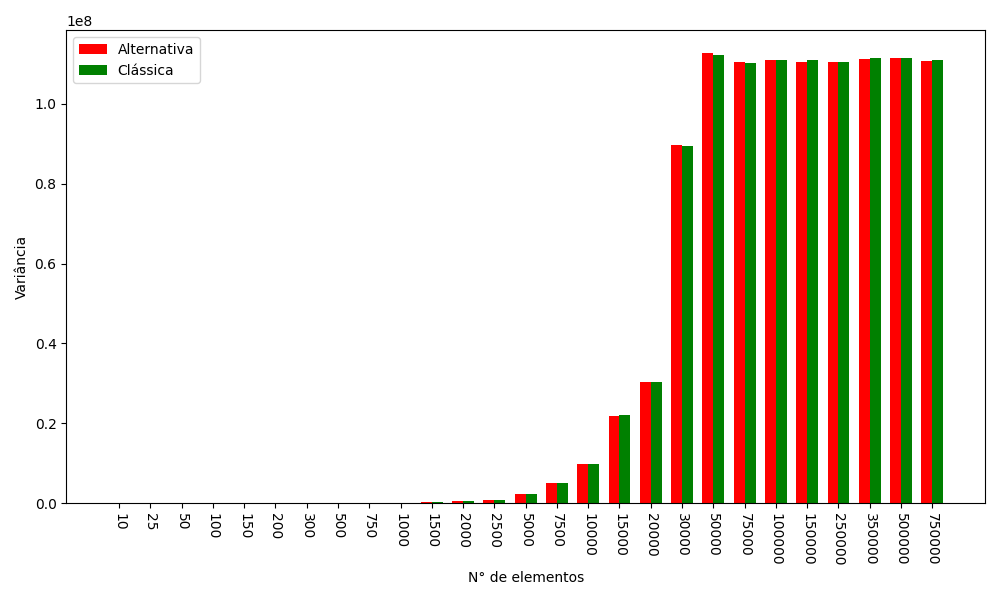
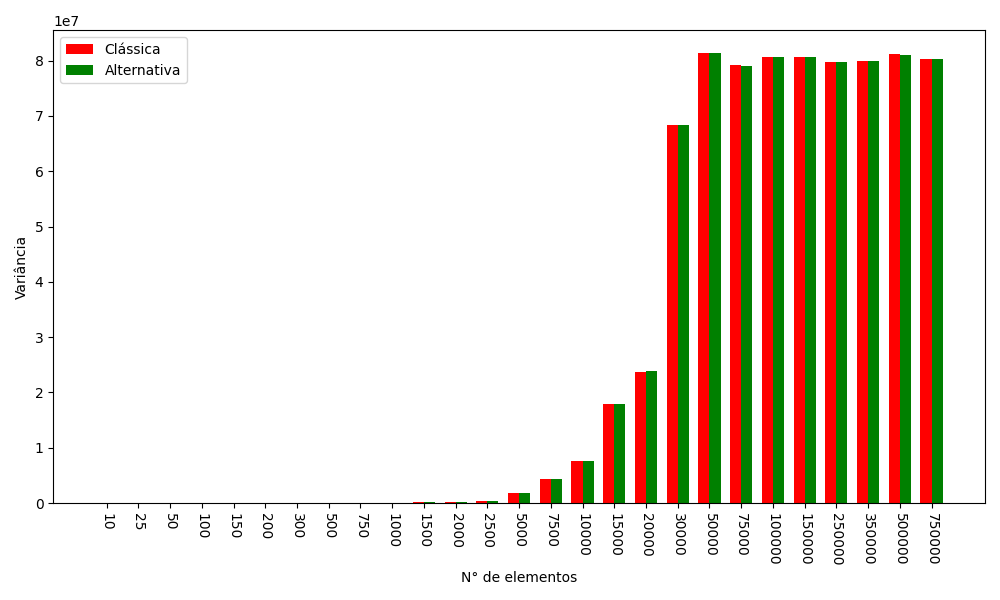
new circular_queue graphs

diff --git a/data_analysis.py b/data_analysis.py
@@ -18,10 +18,10 @@ def plot_times(avg_data): # grafico de linha para comparar linha e tamanho
 
     plt.figure(figsize=(10, 6))
     
-    plt.plot(avg_data['num_classes'], avg_data['unbalanced_time'], marker='o', label='Alternativa', color='red')
+    plt.plot(avg_data['num_classes'], avg_data['unbalanced_time'], marker='o', label='Clássica', color='red')
     # add_labels_line(avg_data['num_classes'], avg_data['unbalanced_time'], 'black')
     
-    plt.plot(avg_data['num_classes'], avg_data['balanced_time'], marker='o', label='Clássica', color='green')
+    plt.plot(avg_data['num_classes'], avg_data['balanced_time'], marker='o', label='Alternativa', color='green')
     # add_labels_line(avg_data['num_classes'], avg_data['balanced_time'], 'black')
     
     plt.xlabel('N° de elementos')
@@ -31,7 +31,28 @@ def plot_times(avg_data): # grafico de linha para comparar linha e tamanho
     plt.savefig('tempo.png')
     plt.show()
 
+def plot_times_10000(avg_data):
+    import matplotlib.pyplot as plt
+    
+    # Filtrar até num_classes = 10000
+    filtered_data = avg_data[avg_data['num_classes'] <= 2500]
+    
+    plt.figure(figsize=(10, 6))
+    
+    # Plotar os tempos da linha Clássica e Alternativa
+    plt.plot(filtered_data['num_classes'], filtered_data['unbalanced_time'], marker='o', label='Clássica', color='red')
+    plt.plot(filtered_data['num_classes'], filtered_data['balanced_time'], marker='o', label='Alternativa', color='green')
+    
+    plt.xlabel('N° de elementos')
+    plt.ylabel('Tempo de Execução (ms)')
+    plt.legend()
+    
+    # Salvar e exibir o gráfico
+    plt.savefig('tempo2500.png')
+    plt.show()
+
 def add_labels(bars): 
+    
     for bar in bars:
         height = bar.get_height()
         plt.text(
@@ -46,8 +67,8 @@ def plot_absolute_values(avg_data): # barras para tempo e variância
     bar_width = 0.35
     x = np.arange(len(avg_data['num_classes']))
     
-    bars1 = plt.bar(x - bar_width/2, avg_data['unbalanced_time'], bar_width, label='Alternativa', color='red')
-    bars2 = plt.bar(x + bar_width/2, avg_data['balanced_time'], bar_width, label='Clássica', color='green')
+    bars1 = plt.bar(x - bar_width/2, avg_data['unbalanced_time'], bar_width, label='Clássica', color='red')
+    bars2 = plt.bar(x + bar_width/2, avg_data['balanced_time'], bar_width, label='Alternativa', color='green')
     
     # add_labels(bars1)
     # add_labels(bars2)
@@ -62,9 +83,31 @@ def plot_absolute_values(avg_data): # barras para tempo e variância
     plt.savefig('tempo-elementos.png')
     plt.show()
 
+
+    filtered_data = avg_data[avg_data['num_classes'] <= 2500]
+    x_filtered = np.arange(len(filtered_data['num_classes']))
+
     plt.figure(figsize=(10, 6))
-    bars3 = plt.bar(x - bar_width/2, avg_data['unbalanced_var'], bar_width, label='Alternativa', color='red')
-    bars4 = plt.bar(x + bar_width/2, avg_data['balanced_var'], bar_width, label='Clássica', color='green')
+
+    bars5 = plt.bar(x_filtered - bar_width/2, filtered_data['unbalanced_var'], bar_width, label='Clássica', color='red')
+    bars6 = plt.bar(x_filtered + bar_width/2, filtered_data['balanced_var'], bar_width, label='Alternativa', color='green')
+    
+    # add_labels(bars3)
+    # add_labels(bars4)
+
+    plt.xlabel('N° de elementos')
+    plt.ylabel('Variância')
+    # plt.title('Variância: Alternativa vs. Clássica')
+    plt.xticks(x_filtered, filtered_data['num_classes'], rotation=-90)
+    plt.legend()
+    plt.grid(False)
+    plt.tight_layout()
+    plt.savefig('variancia-elementos2500.png')
+    plt.show()
+
+    plt.figure(figsize=(10, 6))
+    bars3 = plt.bar(x - bar_width/2, avg_data['unbalanced_var'], bar_width, label='Clássica', color='red')
+    bars4 = plt.bar(x + bar_width/2, avg_data['balanced_var'], bar_width, label='Alternativa', color='green')
     
     # add_labels(bars3)
     # add_labels(bars4)
@@ -80,9 +123,10 @@ def plot_absolute_values(avg_data): # barras para tempo e variância
     plt.show()
 
 
-file_path = './results.csv'
+file_path = './resultsCircular.csv'
 avg_data = process_data(file_path)
 
 plot_times(avg_data)
+plot_times_10000(avg_data)
 plot_absolute_values(avg_data)
 
